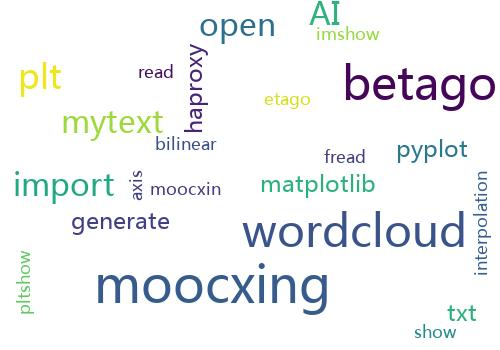
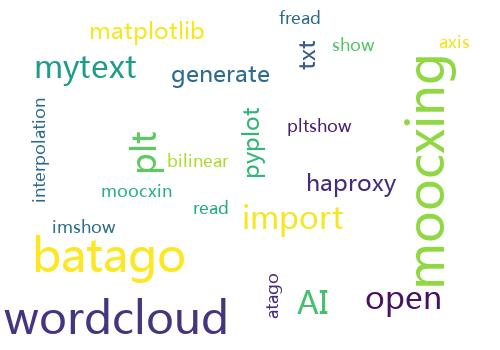
wordcloud

diff --git a/Learning/wordcloud_learn/词云_03_带背景图/batago.py b/Learning/wordcloud_learn/词云_03_带背景图/batago.py
@@ -1,0 +1,27 @@
+
+from os import path
+from PIL import Image
+import numpy as np
+import matplotlib.pyplot as plt
+from wordcloud import WordCloud, STOPWORDS
+
+d = path.dirname(__file__)
+text = open(path.join(d, 'text.txt')).read()
+yang_mask = np.array(Image.open(path.join(d, "batago.jpg")))
+stopwords = set(STOPWORDS)
+stopwords.add("said")
+wc = WordCloud(background_color="black", max_words=2000, mask=yang_mask,
+               stopwords=stopwords)
+# generate word cloud
+wc.generate(text)
+# store to file
+wc.to_file(path.join(d, "batago1.jpg"))
+
+# show
+plt.imshow(wc, interpolation='bilinear')
+plt.axis("off")
+plt.figure()
+plt.imshow(yang_mask, cmap=plt.cm.gray, interpolation='bilinear')
+plt.axis("off")
+plt.show()
+wc.to_file(path.join(d, "out.png"))
